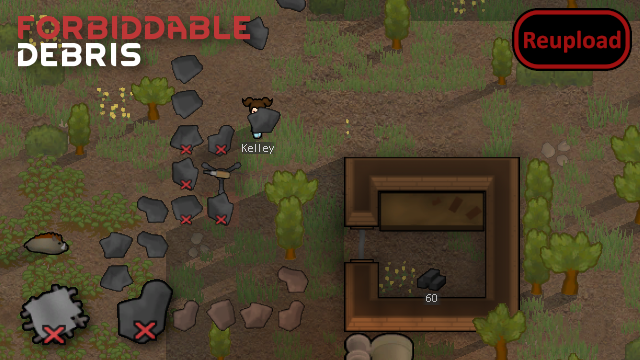
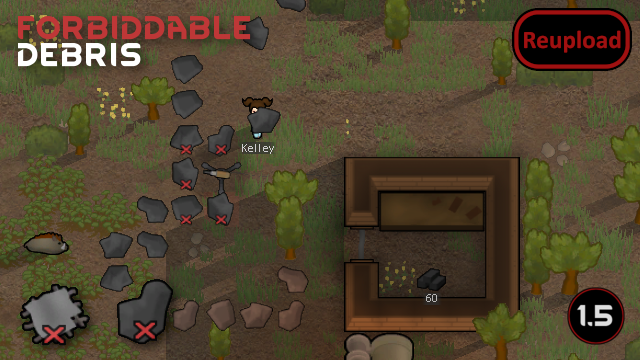
Mod updated for 1.5 and passed autotests

Changed region(s): [[0.875, 0.7944, 1.0, 0.9778]]

diff --git a/README.md b/README.md
@@ -42,11 +42,13 @@ You may use this mod in your mod packs, and you may also derive from the mod. Al
 
 -  See if the the error persists if you just have this mod and its requirements active.
 -  If not, try adding your other mods until it happens again.
--  Post your error-log using https://steamcommunity.com/workshop/filedetails/?id=818773962]HugsLib and command Ctrl+F12
+-  Post your error-log using https://steamcommunity.com/workshop/filedetails/?id=818773962]HugsLib or the standalone https://steamcommunity.com/sharedfiles/filedetails/?id=2873415404]Uploader and command Ctrl+F12
 -  For best support, please use the Discord-channel for error-reporting.
 -  Do not report errors by making a discussion-thread, I get no notification of that.
 -  If you have the solution for a problem, please post it to the GitHub repository.
+-  Use https://github.com/RimSort/RimSort/releases/latest]RimSort to sort your mods
 
 
 
+https://steamcommunity.com/sharedfiles/filedetails/changelog/2054653797]![Image](https://img.shields.io/github/v/release/emipa606/XNDForbiddableDebris?label=latest%20version&style=plastic&color=9f1111&labelColor=black)
 
